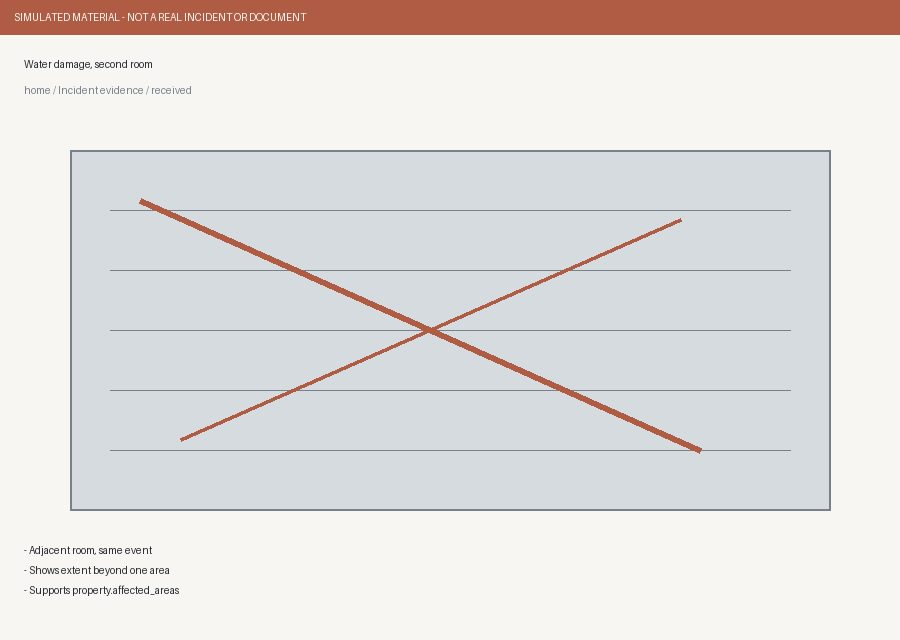
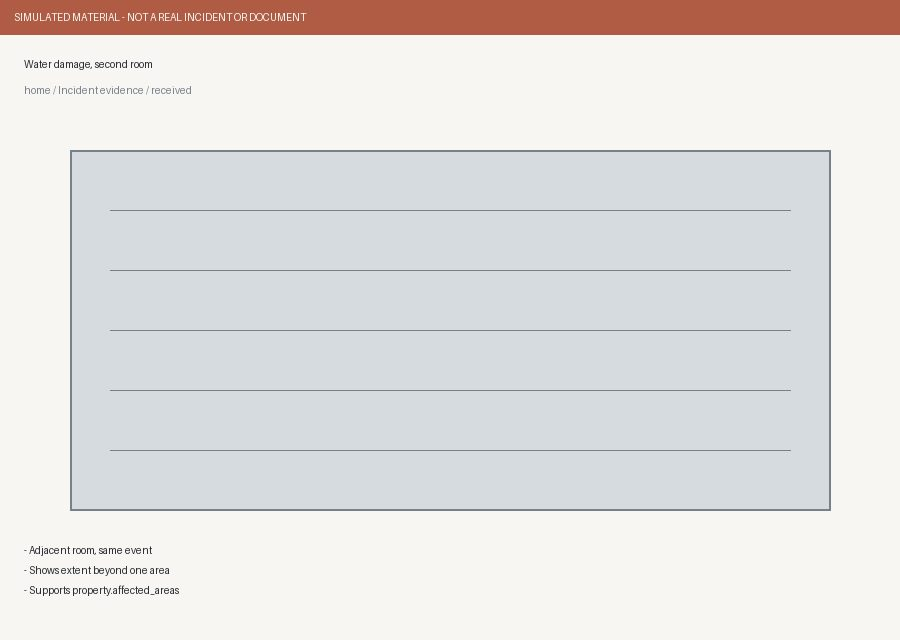
fix(backend): draw only the unusable material as unusable
`_write_photo` drew two diagonal accent strokes on every photograph. They were
meant to say "this is a stand-in, not a photograph", but they read as "this one
is spoiled", so the `invalid` instance and the `received` ones were
indistinguishable by eye. Section 5.2 reaches `invalid` by artefact, which
requires the artefact to demonstrate it, and a viewer could not tell which of
the four motor photographs was the unusable one.

The strokes and a set of dropout bands now appear only on a material whose own
condition is that it cannot be used. `disputed` is deliberately excluded: a
contested photograph is perfectly readable, and what it conflicts with is
another record or a stated fact, not anything in the frame. What says
"stand-in" is the banner, which every asset already carries.

The JPEG comment segment now records the condition beside the simulated-origin
statement, so `--check` reads back what the file itself says it demonstrates
rather than trusting the table. Run against the previous assets it names all
eight photographs.

Refs #571

diff --git a/backend/demo_data/materials/generate_materials.py b/backend/demo_data/materials/generate_materials.py
@@ -44,6 +44,11 @@ ACCENT = (176, 92, 68)
 
 MEDIA_TYPES = {'photo': 'image/jpeg', 'document': 'application/pdf'}
 
+# Conditions where the material itself is what is wrong, so a viewer has to be able to see
+# it. `disputed` is deliberately not here: a contested photograph is perfectly readable,
+# and what it conflicts with is another record or a stated fact, not anything in the frame.
+VISIBLY_UNUSABLE = frozenset({'invalid'})
+
 # A material that is catalogued but holds no bytes of its own. `unavailable` is the
 # condition that needs one: what is unavailable is the material that never arrived, and
 # the document recording why it will not arrive is a different material that did.
@@ -1120,8 +1125,20 @@ def _write_photo(asset: Asset, target: pathlib.Path) -> None:
     for offset in range(0, 5):
         y = 210 + offset * 60
         draw.line([(110, y), (width - 110, y)], fill=MUTED, width=1)
-    draw.line([(140, 200), (width - 200, height - 190)], fill=ACCENT, width=6)
-    draw.line([(width - 220, 220), (180, height - 200)], fill=ACCENT, width=4)
+
+    # Only an unusable material is drawn unusable. The first version of this renderer put
+    # these strokes on every photograph, meaning to say "this is a stand-in, not a
+    # photograph" — but they read as "this one is spoiled", so the `invalid` instance and
+    # the `received` ones were indistinguishable by eye. Section 5.2 reaches `invalid` by
+    # artefact, which requires the artefact to demonstrate it, and a viewer could not tell
+    # which of the four motor photographs was the unusable one. What says "stand-in" is
+    # the banner, which every asset carries.
+    if asset.condition in VISIBLY_UNUSABLE:
+        draw.line([(140, 200), (width - 200, height - 190)], fill=ACCENT, width=6)
+        draw.line([(width - 220, 220), (180, height - 200)], fill=ACCENT, width=4)
+        for offset in range(0, 6):
+            y = 175 + offset * 55
+            draw.rectangle([(72, y), (width - 72, y + 16)], fill=PAPER)
 
     draw.rectangle([(0, 0), (width, 34)], fill=ACCENT)
     draw.text((14, 11), SIMULATED, fill=PAPER)
@@ -1130,8 +1147,14 @@ def _write_photo(asset: Asset, target: pathlib.Path) -> None:
     for index, line in enumerate(asset.lines):
         draw.text((24, height - 96 + index * 20), f'- {line}', fill=INK)
     # The banner is drawn for a human reader; the comment segment carries the same
-    # statement where --check can read it back with the standard library alone.
-    image.save(target, 'JPEG', quality=82, comment=SIMULATED.encode('ascii'))
+    # statement plus the condition, where --check can read both back with the standard
+    # library alone and hold the file to what the table says it demonstrates.
+    image.save(
+        target,
+        'JPEG',
+        quality=82,
+        comment=f'{SIMULATED} | condition: {asset.condition}'.encode('ascii'),
+    )
 
 
 def _pdf_bytes(asset: Asset) -> bytes:
@@ -1682,10 +1705,17 @@ def check_all() -> tuple[list[str], list[str]]:
                 if size != PHOTO_SIZE:
                     failures.append(f'{asset.path}: {size[0]}x{size[1]}, expected 900x640')
                     continue
-                if SIMULATED not in comments:
+                if not any(SIMULATED in comment for comment in comments):
                     failures.append(f'{asset.path}: no simulated-origin comment segment')
                     continue
-                detail = f'JPEG {size[0]}x{size[1]}, origin in comment segment'
+                stated = f'condition: {asset.condition}'
+                if not any(stated in comment for comment in comments):
+                    failures.append(
+                        f'{asset.path}: the file does not state the condition the table '
+                        f'gives it ({asset.condition})'
+                    )
+                    continue
+                detail = f'JPEG {size[0]}x{size[1]}, origin and condition in comment segment'
             else:
                 text = pdf_page_text(data)
                 if SIMULATED not in text:
